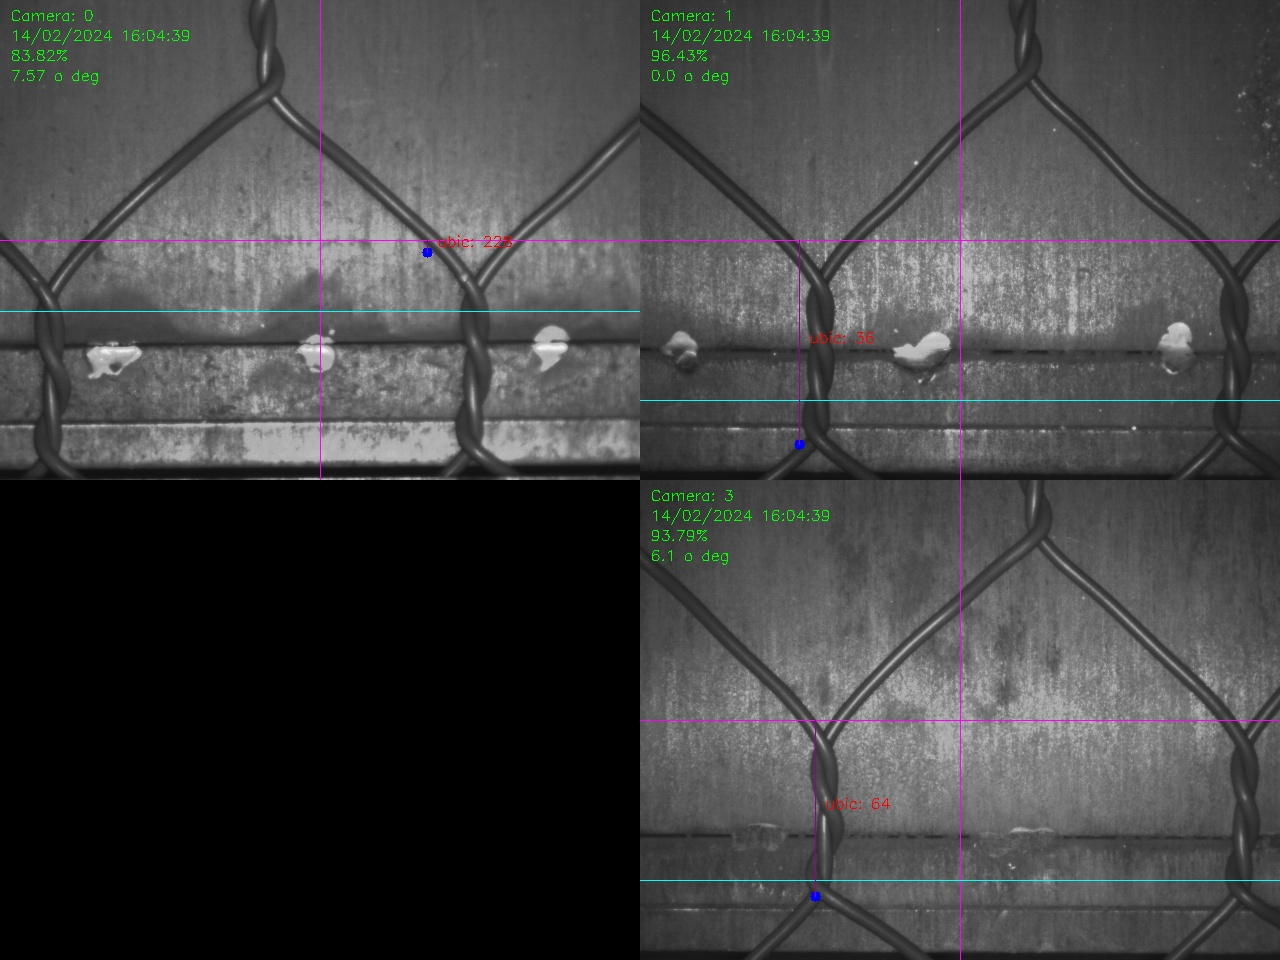
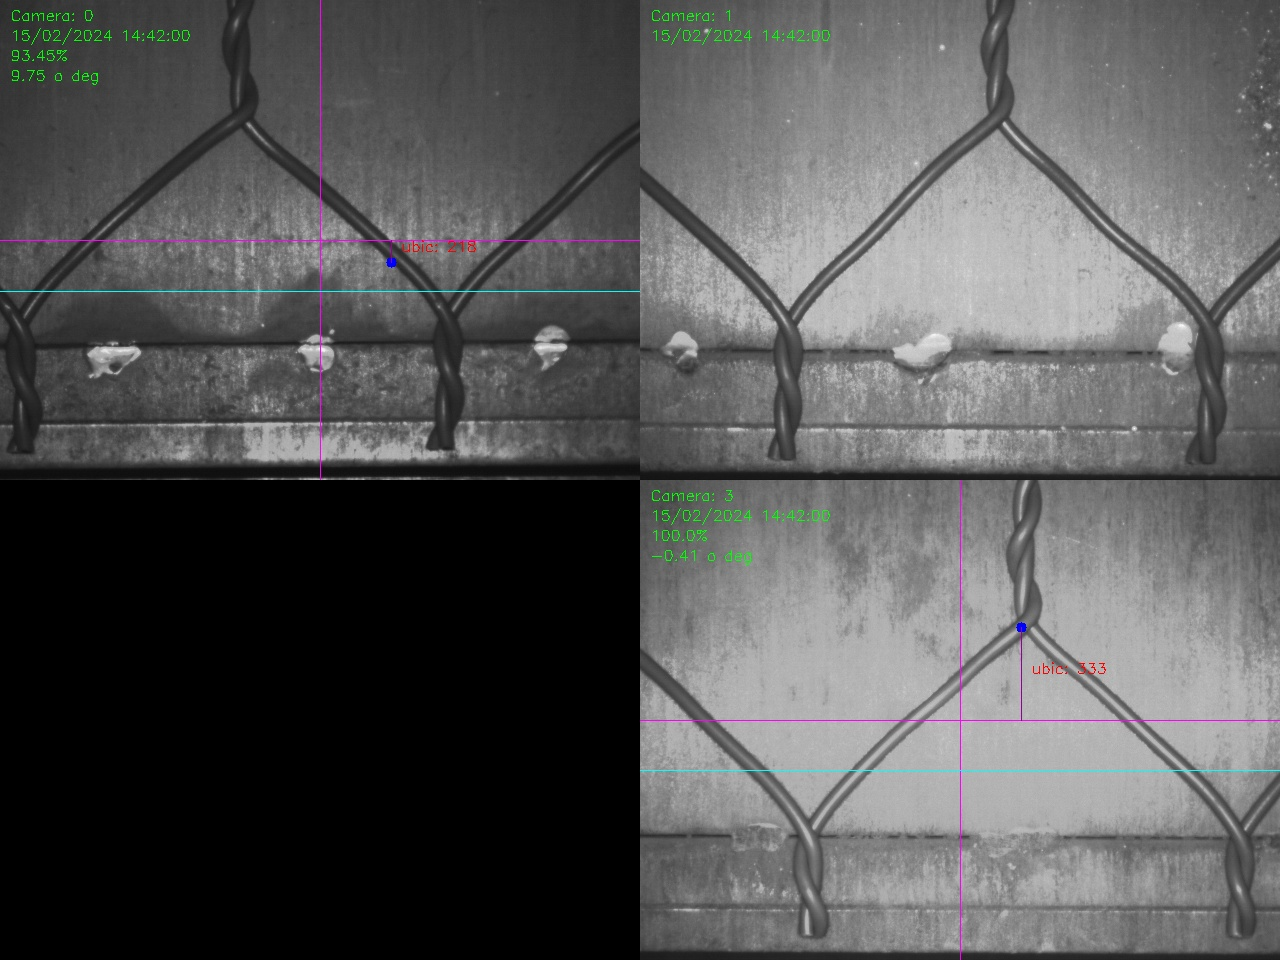
Cambio de politica a no compensar

diff --git a/apps/plc_app.py b/apps/plc_app.py
@@ -129,7 +129,7 @@ class AlambresWebApp:
         lista_sin_outliers = [x for x in lista if x not in outliers]
         mediana = np.median(lista_sin_outliers)
 
-        # Ajustar outliers y elegir el valor más cercano a la mediana
+        # Ajustar outliers y elegir el valor más cercano a la mediana(prom)
         outliers_ajustados = []
         for outlier in outliers:
             ajuste_suma = outlier + compensacion
@@ -145,35 +145,28 @@ class AlambresWebApp:
         
         return lista_ajustada
     
-    def detection_execution(self, app):
-        """Return: {'new_point': new_point, 'error': error_mm, 'imagen': encoded_image}}"""
-        # Execute detection
-        print("Executing detection...")
-        print(f"PLC: {self.plc_client.plc_states}")
+    def generate_images(self, cam_list, result_list):
+        # Get images 
+        resp_images = self.camera_manager.get_images(cam_list)
+        # Process images
+        jpg_images = self.image_manager.generate_images(resp_images)
+        jpg_images = self.image_manager.proc_image(jpg_images, result_list)
+        img_path = os.path.join(os.path.dirname(__file__), r'lib/img')
+        # self.image_manager.save_images(jpg_images, path=img_path)
+        self.image_manager.save_image(jpg_images, path=img_path)
         
-        # Process app
-        app = f"app{app:02d}"
-        compensator = self.config[app]['nudo']/self.config['scale']['pix2mm']
+        with open(img_path + f"/all.jpg", "rb") as f:
+            image_data = f.read()
+        # Encode image data as base64 string
+        encoded_image = base64.b64encode(image_data).decode('utf-8')
+        return encoded_image
 
-        # Get index from the "names" area inside "cameras": "cam02" -> 2, make a list with that if they are enabled
-        cam_list = [int(cam["name"][3:]) for cam in self.config[app]['cameras'] if self.config['cameras'][int(cam["name"][3:])]['enabled'] ]
-        disabled_list = [index for index, cam in enumerate(self.config[app]['cameras']) if not self.config['cameras'][int(cam["name"][3:])]['enabled']]
-        
-        # Execute detection
-        result_list = self.camera_manager.execute_detection(cam_list)
-
-        # Verify plc cut order
-        merma = self.plc_client.plc_states['TRIG_CUT']
-        if merma == True:
-            print("\t-> Merma ON -------------------------")
-            set_key = 'set-merma'
-        else:
-            print("\t-> Merma OFF -------------------------")
-            set_key = 'set-point'     
-        # Promedio de setpoints
+    def process_results(self, result_list, cam_list, app, compensator):
+        set_key = 'set-point'
+        # Promedio de setpoints para detectar outliers
         prom_set_point = sum([cam[set_key] for cam in self.config[app]['cameras']])/len(self.config[app]['cameras'])         
 
-        # make a list of y coordinates from the result_list
+        # Make a list of y coordinates from the result_list
         y_list = [result[1]['y'] for result in result_list if result is not None and result[0] == 0]
         print(f"y_list: {y_list}")
         # Detect outliers
@@ -204,7 +197,6 @@ class AlambresWebApp:
 
             # Set point
             set_point = cam[set_key] 
-            result_list[index][1]['merma'] = merma
             result_list[index][1]['set_point'] = set_point
             
             # Get the result from the result_list by index
@@ -213,66 +205,65 @@ class AlambresWebApp:
                 print(f"None")
                 continue
 
-            if compensar:
-                diff = result - set_point + compensator
-                print(f"\t\t-> Operation: {diff} = {result} - {set_point} + {compensator}")
-            else:
-                diff = result - set_point
-                print(f"\t\t-> Operation: {diff} = {result} - {set_point}")           
+            # if compensar:
+            #     diff = result - set_point + compensator
+            #     print(f"\t\t-> Operation: {diff} = {result} - {set_point} + {compensator}")
+            # else:
+            diff = result - set_point
+            print(f"\t\t-> Operation: {diff} = {result} - {set_point}")           
             
             differences.append(diff)
             diff_ind.append(index)
         
-        # Align
-        if len(differences) <= 1:
-            # buscar el primer result de result_list que no sea None
-            try:
-                f_result = next((x for x in result_list if x is not None and x[0] == 0), None) 
-                align = f_result[1]['orientation']
-            except Exception as e:
-                print(f"Se produjo un error con el alineamiento: {e}")
-                align = 0
+        return differences, diff_ind
+    
+    def detection_execution(self, app):
+        """Return: {'new_point': new_point, 'error': error_mm, 'imagen': encoded_image}}"""
+        # Execute detection
+        print("Executing detection...")
+        print(f"PLC: {self.plc_client.plc_states}")
+        
+        # Process app
+        app = f"app{app:02d}"
+        compensator = self.config[app]['nudo']/self.config['scale']['pix2mm']
 
+        # Get index from the "names" area inside "cameras": "cam02" -> 2, make a list with that if they are enabled
+        cam_list = [int(cam["name"][3:]) for cam in self.config[app]['cameras'] if self.config['cameras'][int(cam["name"][3:])]['enabled'] ]
+        disabled_list = [index for index, cam in enumerate(self.config[app]['cameras']) if not self.config['cameras'][int(cam["name"][3:])]['enabled']]
+        
+        # Execute detection
+        result_list = self.camera_manager.execute_detection(cam_list)
+
+        # Verify plc cut order
+        merma = self.plc_client.plc_states['TRIG_CUT']
+        if merma == True:
+            print("\t-> Merma ON -------------------------")
+            set_key = 'set-merma'
+            new_point = self.config[app]['merma'] / 10
+            error_mm = 0
+            align = 0
+            encoded_image = None
         else:
+            print("\t-> Merma OFF -------------------------")
+            set_key = 'set-point'  
+            differences, diff_ind = self.process_results(result_list, cam_list, app, compensator)
+            # Align
             align = self.calcular_pendiente(differences, diff_ind)
-        if abs(align) > self.config[app]['align']:
-            self.plc_client.cam_states["ErrAlig"] = True
-        print(f"align: {align}")
-        # print(f"Detection executed: {result_list}")
-        # Calculate error   
-        # funcion para iterar sobre las diferencias y si es mayor al 50% del compensador, restarle el compensador
-        if sum(differences)/len(differences) >= compensator*0.8:
-            differences = [diff - compensator for diff in differences]
-        error = sum(differences)/len(differences) if len(differences) > 0 else 0
-        error_mm = error * self.config['scale']['pix2mm']
-        if error_mm <=-20:
-            # Restaura compesador en differences
-            differences = [diff + compensator for diff in differences]
+            if abs(align) > self.config[app]['align']:
+                self.plc_client.cam_states["ErrAlig"] = True
+            print(f"align: {align}")
+            # Calculate error   
             error = sum(differences)/len(differences) if len(differences) > 0 else 0
             error_mm = error * self.config['scale']['pix2mm']
-        
-        print(f"New differences: {differences}")
+            print(f"New differences: {differences}")
+            # New point
+            new_point = self.plc_client.plc_struct['PV_POS'] + error_mm / 10
 
-        new_point = self.plc_client.plc_struct['PV_POS'] + error_mm/10
+            encoded_image = self.generate_images(cam_list, result_list)
+            print("-> Images captured : DONE")
+        
         print(f"-> NewPoint: {new_point}, PV_POS: {self.plc_client.plc_struct['PV_POS']}, Error: {error_mm} mm")
 
-        # Get images 
-        resp_images = self.camera_manager.get_images(cam_list)
-        # Process images
-        jpg_images = self.image_manager.generate_images(resp_images)
-        jpg_images = self.image_manager.proc_image(jpg_images, result_list)
-        img_path = os.path.join(os.path.dirname(__file__), r'lib/img')
-        # self.image_manager.save_images(jpg_images, path=img_path)
-        self.image_manager.save_image(jpg_images, path=img_path)
-        
-        with open(img_path + f"/all.jpg", "rb") as f:
-            image_data = f.read()
-        # Encode image data as base64 string
-        encoded_image = base64.b64encode(image_data).decode('utf-8')
-        print("-> Images captured : DONE")
-        
-        self.plc_client.cam_states['RUNNING'] = False
-        self.plc_client.cam_states['READY'] = True
         return {'new_point': new_point, 'error': error_mm, 'imagen': encoded_image, 'align': align, 'results_cam': result_list}
 
     def main(self):        
@@ -313,6 +304,9 @@ class AlambresWebApp:
                 self.plc_client.cam_struct["Error"] = resp['error']
                 # Update states    
                 self.prev_state = True # self.plc_client.plc_states["TRIG"]
+                
+                self.plc_client.cam_states['RUNNING'] = False
+                self.plc_client.cam_states['READY'] = True
                 self.plc_client.cam_states['READY_CUT'] = True
                 
     def web_requests(self, app):

diff --git a/apps/lib/image_client.py b/apps/lib/image_client.py
@@ -16,7 +16,7 @@ BLUE   = (  0,   0, 255)
 VIOLET = (255,   0, 255)
 
 
-Objeto = namedtuple('Objeto', ['x', 'y', 'ori', 'merma', 'set_point'])
+Objeto = namedtuple('Objeto', ['x', 'y', 'ori', 'set_point'])
 
 class ImageClient():
     def __init__(self):
@@ -116,7 +116,6 @@ class ImageClient():
             obj = Objeto(int(result_list[i][1]['x']), 
                          int(result_list[i][1]['y']), 
                          int(result_list[i][1]['orientation']),
-                         result_list[i][1]['merma'],
                          result_list[i][1]['set_point'])
             # Print analysis on image
             # dx = img_w/2 - obj.x
